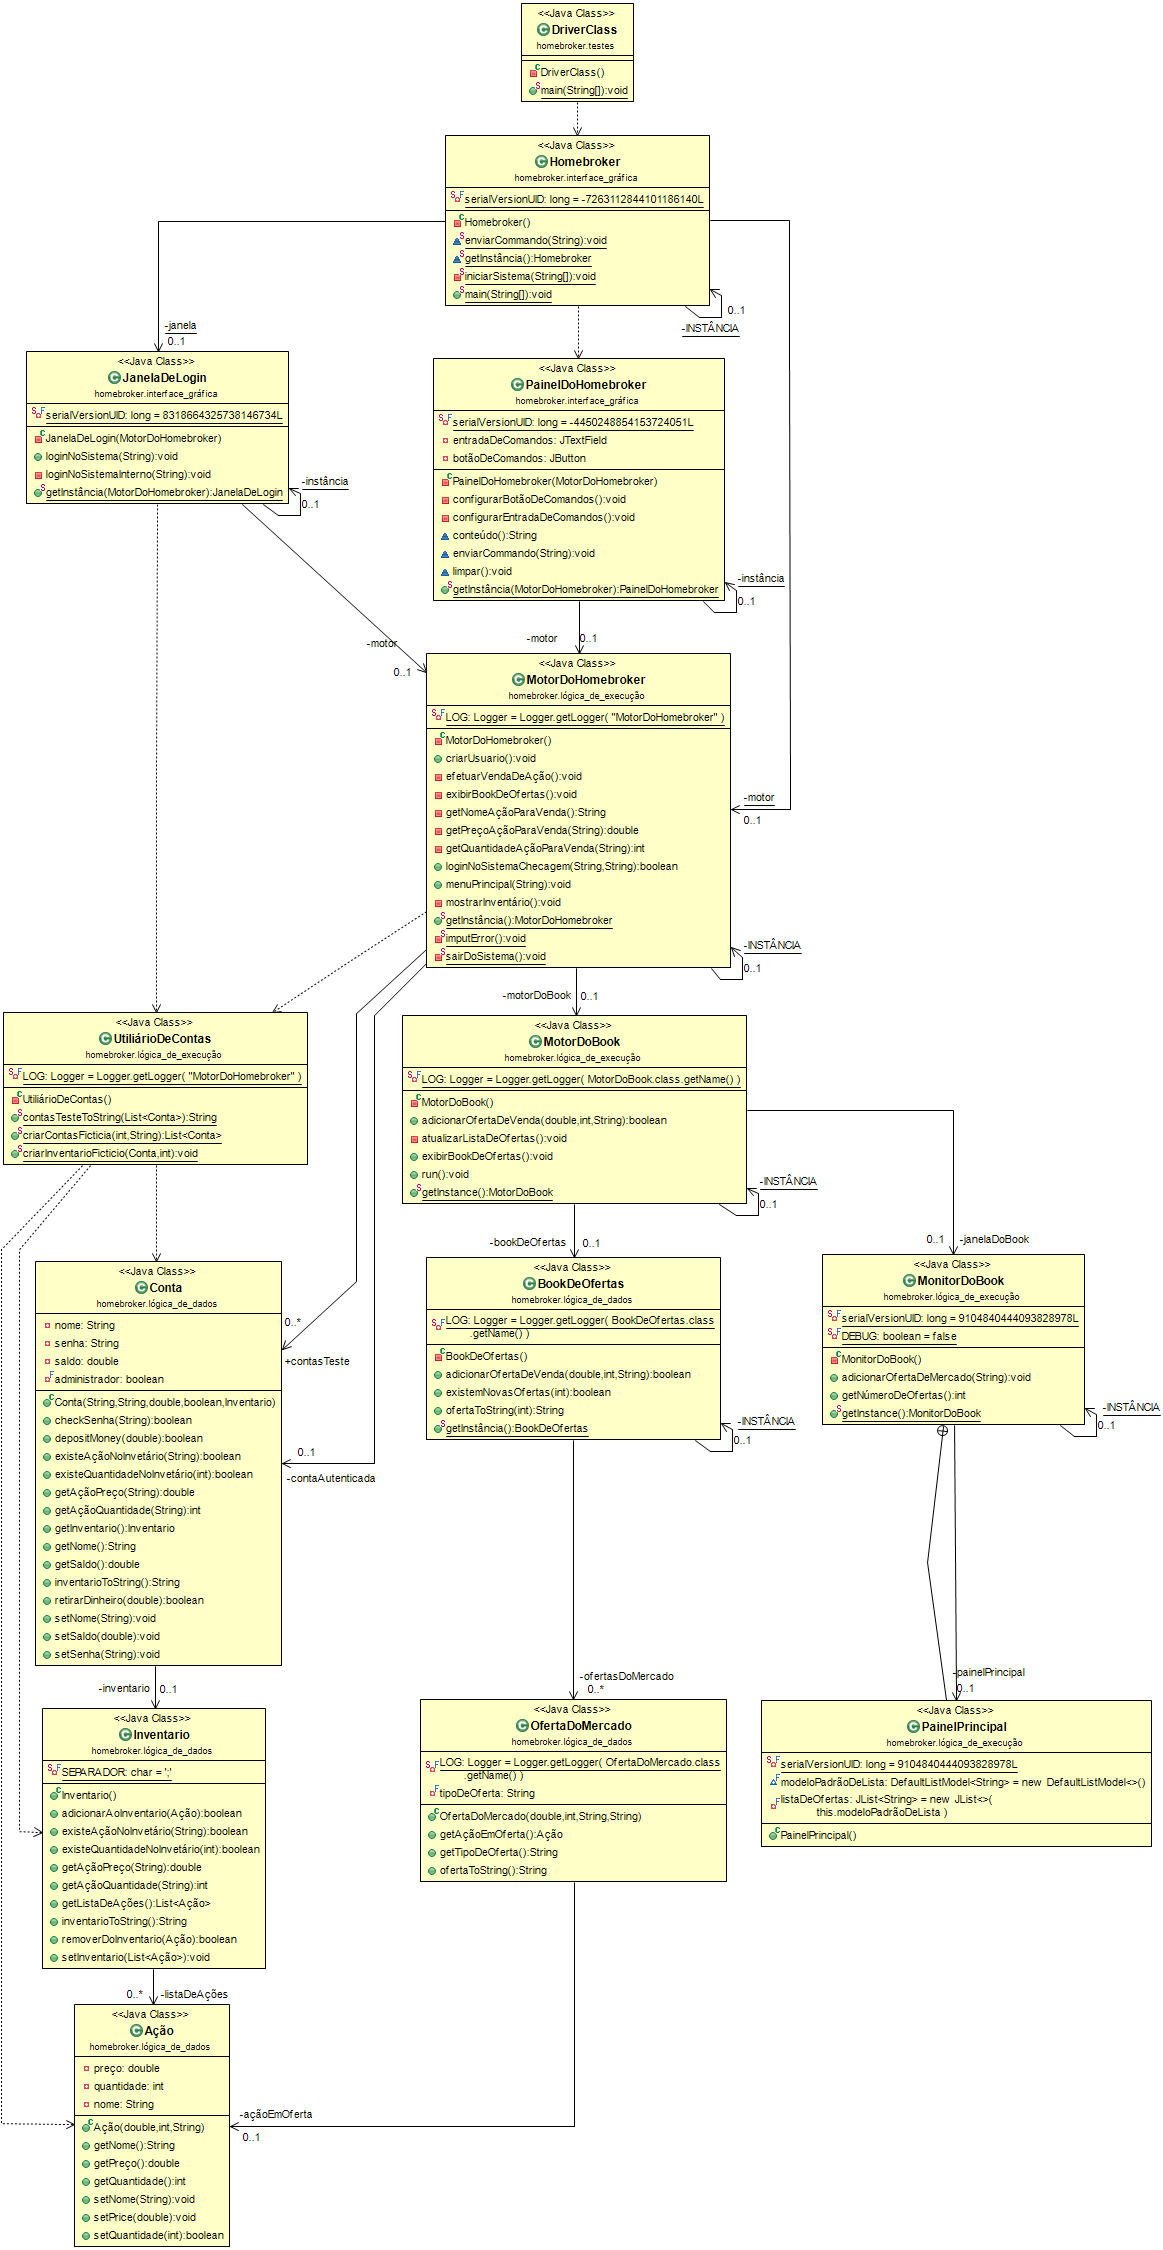
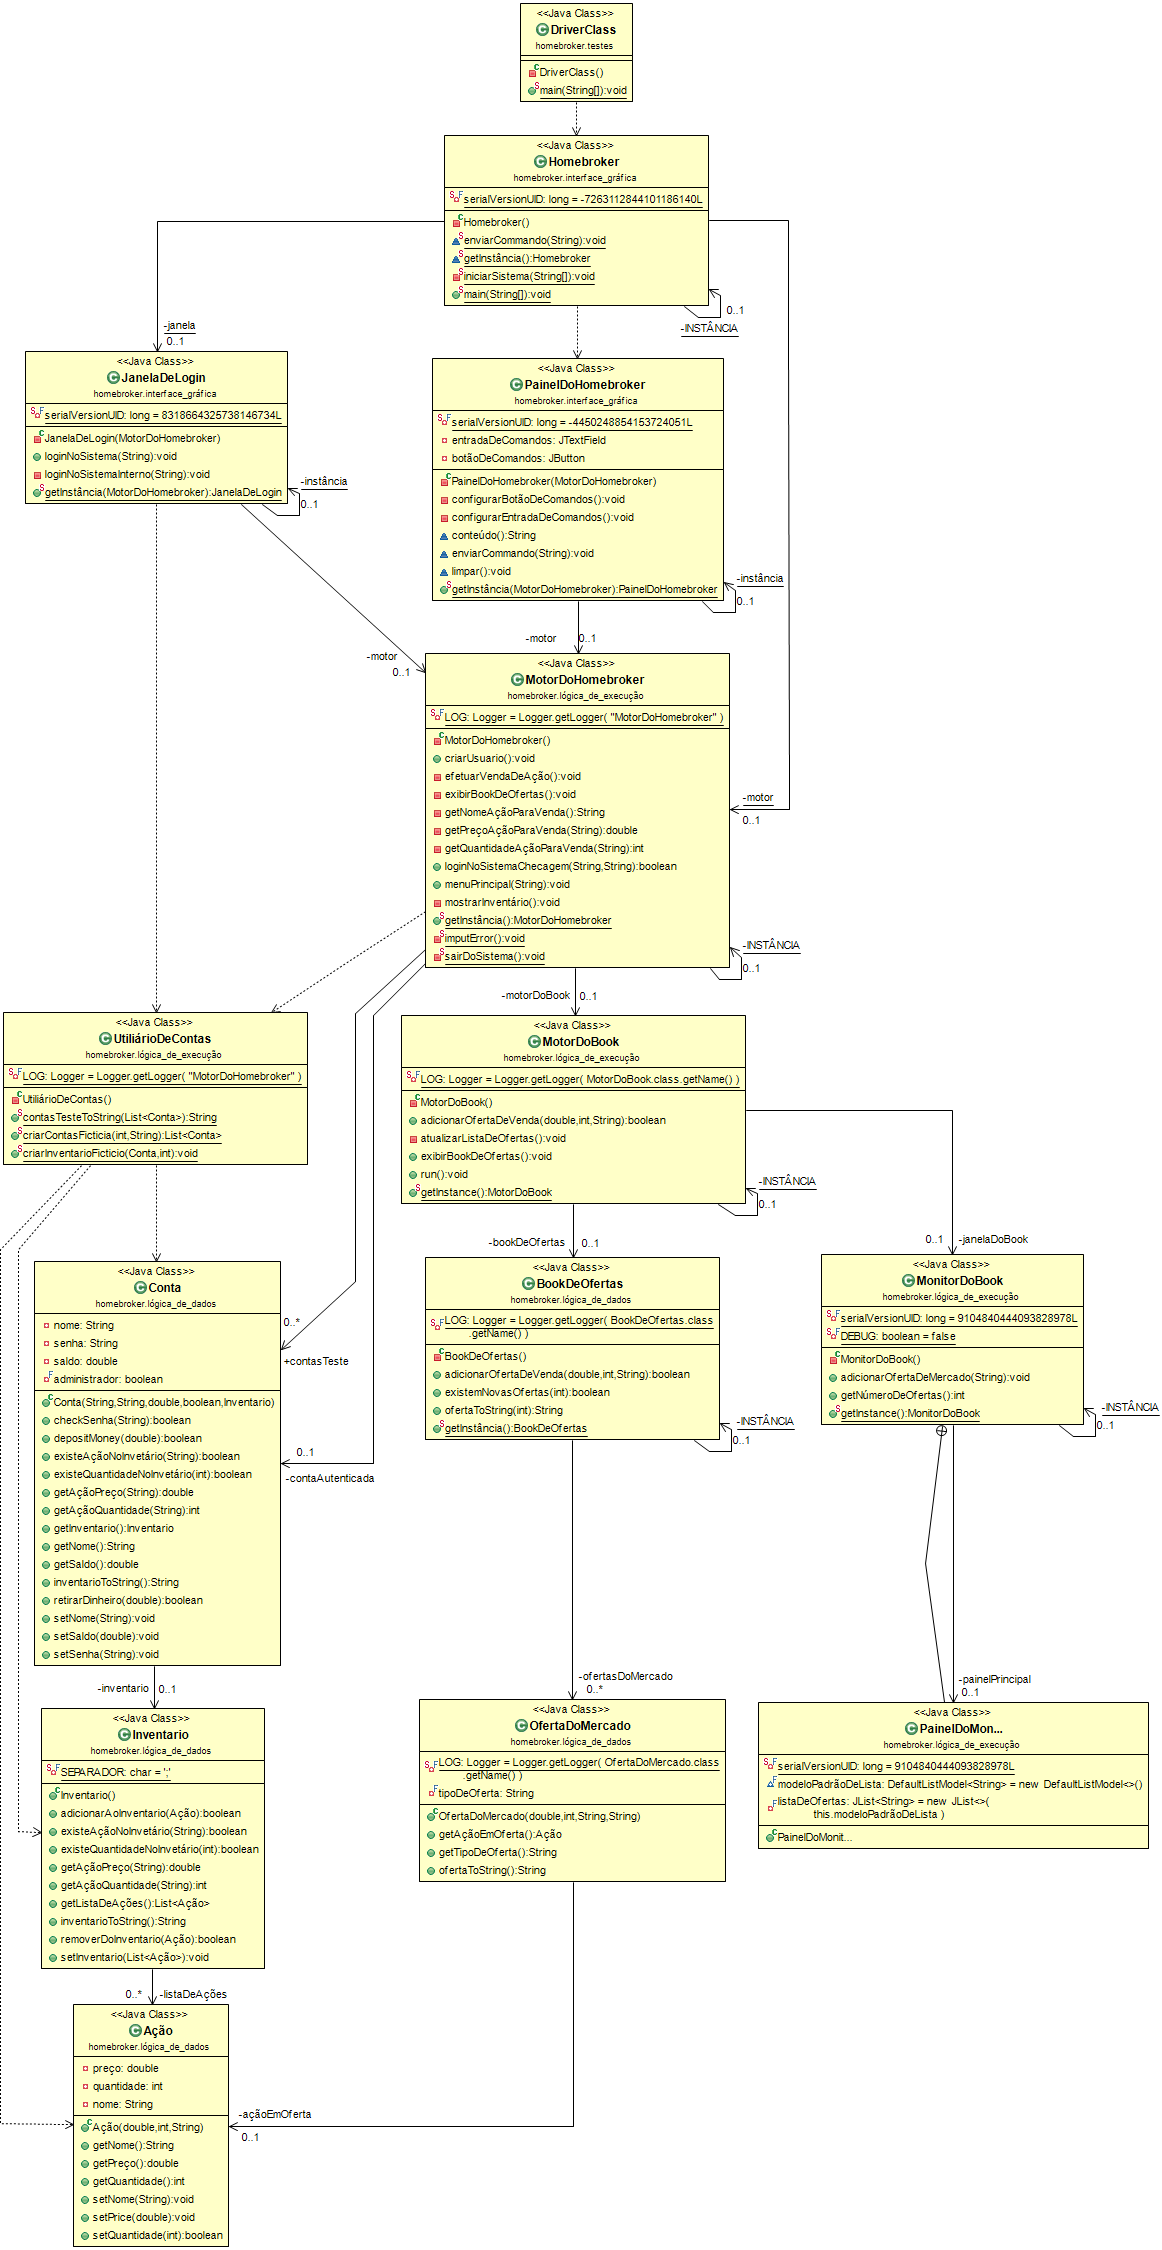
Renomeado a classe interna do MonitorDoBook atualizado o diagrama do projeto.

diff --git a/homebroker/lógica_de_execução/MonitorDoBook.java b/homebroker/lógica_de_execução/MonitorDoBook.java
@@ -40,7 +40,7 @@ public class MonitorDoBook extends JFrame
     
     private static final boolean DEBUG = false;
     
-    private final PainelPrincipal painelPrincipal;
+    private final PainelDoMonitorDoBook painelPrincipal;
     
     private MonitorDoBook()
     {
@@ -69,7 +69,7 @@ public class MonitorDoBook extends JFrame
         this.setBounds( 50, 50, width - 100, height - 100 );
         this.setVisible( false );
         
-        this.painelPrincipal = new PainelPrincipal();
+        this.painelPrincipal = new PainelDoMonitorDoBook();
         this.setContentPane( this.painelPrincipal );
         
         Biblioteca.trocarFontes( this, new Font( this.getName(), Frame.NORMAL,
@@ -110,7 +110,7 @@ public class MonitorDoBook extends JFrame
      * 
      * @authors Evandro  Coan, Renan Pinho Assi
      */
-    private class PainelPrincipal extends JPanel
+    private class PainelDoMonitorDoBook extends JPanel
     {
         /**
          * 
@@ -123,7 +123,7 @@ public class MonitorDoBook extends JFrame
         private final JList< String > listaDeOfertas = new JList<>(
             this.modeloPadrãoDeLista );
         
-        public PainelPrincipal()
+        public PainelDoMonitorDoBook()
         {
             super();
             
